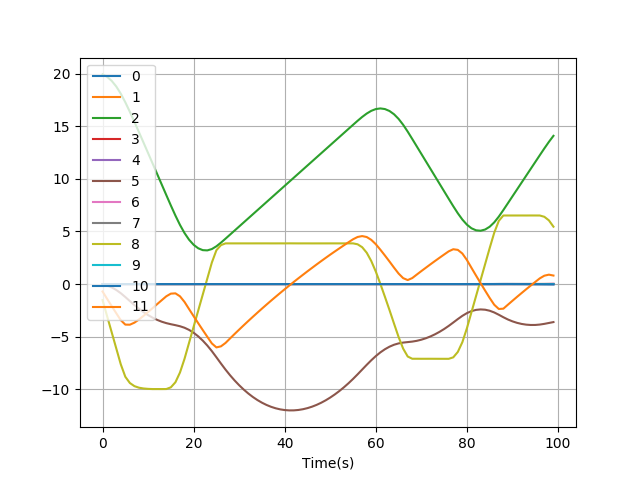
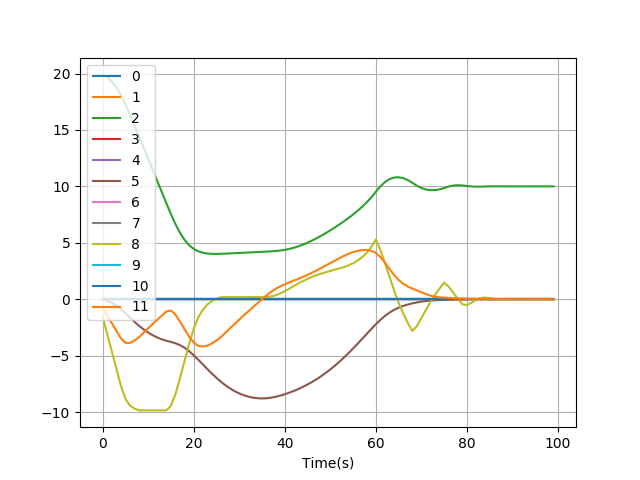
mpc dense cleaned

diff --git a/scripts/test_mpc_dense.py b/scripts/test_mpc_dense.py
@@ -68,36 +68,28 @@ def block_diag(M,n):
   """
   return sparse.block_diag([M for i in range(n)])
 
-# Prediction horizon
+#* Prediction horizon
 N = 10
 
-# Initial and reference states
+#* Initial and reference states
 x0 = np.array([0.,0.,20.,0.,0.,0.,0.,0.,0.,0.,0.,0.])
 xr = np.array([0.,0.,10.,0.,0.,0.,0.,0.,0.,0.,0.,0.]) #np.array([0.,0.,0.,0.,0.,0.,0.,0.,0.,0.,0.,0.])
 xrtrj = np.kron(np.ones(N), xr.reshape(xr.shape[0],-1))
 
-# Plot Ad and Bd
-""" plt.figure()
+#* Plot Ad and Bd
+plt.figure()
 plt.subplot(1,2,1,xlabel="Ns", ylabel="Ns")
 plt.imshow(Ad.toarray(),  interpolation='nearest', cmap=cm.Greys_r)
 plt.title("Ad in $x_{k+1}=Adx_k+Bu_k$")
 plt.subplot(1,2,2,xlabel="Nu", ylabel="Ns")
 plt.imshow(Bd.toarray(),  interpolation='nearest', cmap=cm.Greys_r)
 plt.title("Bdd in $x_{k+1}=Adx_k+Bdu_k$")
-plt.show() """
-
 
 #! Cast MPC problem to a QP: x = [u(0),...,u(N-1)) DENSE FORM
 # - quadratic objective, use 
 Rbd = sparse.kron(sparse.eye(N), R)
 Qbd = sparse.kron(sparse.eye(N), Q)
 Bbd = block_diag(Bd,nu)
-
-""" plt.figure()
-plt.subplot(1,1,1,xlabel="Ns", ylabel="Ns")
-plt.imshow(Bbd.toarray(),  interpolation='nearest', cmap=cm.Greys_r)
-plt.title("Block diagonal B")
-plt.show() """
 
 # Write B:
 diag_AkB = Bd
@@ -117,19 +109,8 @@ for i in range(N):
     diag_AkB = Ad.dot(diag_AkB)
     #diag_AkB = diag_AkB + [Ad.dot(diag_AkB[-1])]
     
-"""     plt.figure()
-    plt.subplot(1,1,1,xlabel="Ns", ylabel="Ns")
-    plt.imshow(AkB_bd_temp.toarray(),  interpolation='nearest', cmap=cm.Greys_r)
-    plt.title("Block diagonals of B")
-    plt.show() """
 
 B = sparse.coo_matrix((data_list, (row_list, col_list)), shape=(N*ns, N*nu))
-#B = sparse.diags(diag_AkB,[-5,-4,-3,-2,-1,0])
-""" plt.figure()
-plt.subplot(1,1,1,xlabel="Ns", ylabel="Ns")
-plt.imshow(B.toarray(),  interpolation='nearest', cmap=cm.Greys_r)
-plt.title("B")
-plt.show() """
 
 a = Ad
 Ak = Ad
@@ -137,67 +118,56 @@ for i in range(N-1):
     Ak = Ad.dot(Ad)
     a = sparse.vstack([a,Ak])
 
-#a = sparse.csc_matrix(a)
-
 
 #! Check x=ax0+bu
 # Generate fake data
-""" x0 = np.array([0.,0.,2.,0.,0.,0.,0.,0.,0.,0.,0.,0.])
-x00 = np.array([0.,0.,2.,0.,0.,0.,0.,0.,0.,0.,0.,0.])
-# Store data Init
-nsim = 100
-xst = np.zeros((ns,nsim))
-ust = np.zeros((nu,nsim))
+check_ab = True
+if check_ab:
+    x0 = np.array([0.,0.,2.,0.,0.,0.,0.,0.,0.,0.,0.,0.])
+    x00 = np.array([0.,0.,2.,0.,0.,0.,0.,0.,0.,0.,0.,0.])
+    # Store data Init
+    nsim = 100
+    xst = np.zeros((ns,nsim))
+    ust = np.zeros((nu,nsim))
 
-# Simulate in closed loop
+    # Simulate in closed loop
 
-for i in range(nsim):
-    # Fake pd controller
-    ctrl = np.array([-0.1*x0[2],-0.1*x0[1],0.1*x0[2],-0.1*x0[3]])
-    x0 = Ad.dot(x0) + Bd.dot(ctrl)
+    for i in range(nsim):
+        # Fake pd controller
+        ctrl = np.array([-0.1*x0[2],-0.1*x0[1],0.1*x0[2],-0.1*x0[3]])
+        x0 = Ad.dot(x0) + Bd.dot(ctrl)
 
-    # Store Data
-    xst[:,i] = x0
-    ust[:,i] = ctrl
+        # Store Data
+        xst[:,i] = x0
+        ust[:,i] = ctrl
 
-x_dense = np.reshape(a @ x00 + B @ ust.flatten('F'),(N,ns)).T
+    x_dense = np.reshape(a @ x00 + B @ ust.flatten('F'),(N,ns)).T
 
-for i in range(1):
-    plt.plot(range(nsim),xst[i,:],label="sim "+str(i))
-    plt.plot(range(nsim),x_dense[i,:],label="ax+bu "+str(i))
-plt.xlabel('Time(s)')
-plt.grid()
-plt.legend()
-plt.show()    
-
-
-for i in range(nu):
-    plt.plot(range(nsim),ust[i,:],label=str(i))
-plt.xlabel('Time(s)')
-plt.grid()
-plt.legend()
-plt.show()   """
+    for i in range(1):
+        plt.plot(range(nsim),xst[i,:],label="sim "+str(i))
+        plt.plot(range(nsim),x_dense[i,:],label="ax+bu "+str(i))
+    plt.xlabel('Time(s)')
+    plt.grid()
+    plt.legend()
+      
 
 
-#plt.subplot(1,1,1,xlabel="Ns", ylabel="Ns")
-""" plt.matshow(a.toarray(), cmap=cm.jet) 
-plt.title("a")
-plt.colorbar()
-plt.show() """
+    for i in range(nu):
+        plt.plot(range(nsim),ust[i,:],label=str(i))
+    plt.xlabel('Time(s)')
+    plt.grid()
+    plt.legend()
+    plt.show()  
 
 
 P = Rbd + B.T @ Qbd @ B
 # - linear objective
 xrQB  = B.T @ np.kron(np.ones(N), Q.dot(xr))
 x0_1 = x0.reshape(x0.shape[0],-1)
-x0aQb = B.T @ Qbd @ a @ x0 #B.T @ np.kron(np.ones(N), Q @ a @ x0) #( (x0_1.T)@(a.T)@(Qbd)@(B) ).squeeze()
+x0aQb = B.T @ Qbd @ a @ x0
 BTQbda =  B.T @ Qbd @ a
 xr_N_flat = np.tile(xr,N)
-""" plt.figure()
-plt.subplot(1,1,1,xlabel="Ns", ylabel="Ns")
-plt.matshow(xrQB,  interpolation='nearest', cmap=cm.Greys_r)
-plt.title("xrQB")
-plt.show() """
+
 
 q = x0aQb - xrQB 
 
@@ -249,15 +219,9 @@ plt.title("q in $J=u^TPu+q^Tu$")
 plt.grid()
 plt.tight_layout()
 plt.savefig("Sparse MPC.png",bbox_inches='tight')
-#plt.show()
-
-
 
 # Setup workspace
 prob.setup(P=P,q=q,A=A,l=l,u=u, warm_start=True)
-
-
-
 
 # Simulate in closed loop
 nsim = 100
@@ -284,6 +248,7 @@ for i in range(nsim):
     xst[:,i] = x0
     ust[:,i] = ctrl
     mpc_times[i] = res.info.run_time
+
     # Update initial state
     x0aQb = BTQbda @ x0
     q = x0aQb  - xrQB
@@ -294,27 +259,24 @@ for i in range(nsim):
 print(time.clock()-t1)
 #%%
 #! Plots
-
-
-plt.figure()
+fig = plt.figure()
+fig.suptitle("MPC Linearized Quadrotor simulation using dense form")
+plt.subplot(3,1,1)
 plt.hist(mpc_times*1000)
 plt.xlabel('Time(ms)')
 plt.title('MPC Run time Histogram')
 plt.grid()
 plt.legend()
-#plt.show()    
 
-
-plt.figure()
+plt.subplot(3,1,2)
 for i in range(ns):
   plt.plot(range(nsim),xst[i,:],label=str(i))
 plt.xlabel('Time(s)')
 plt.grid()
 plt.legend()
-plt.savefig('sim_mcp_quad_pos_dense.png')
-#plt.show()    
+ 
 
-plt.figure()
+plt.subplot(3,1,3)
 for i in range(nu):
   plt.plot(range(nsim),ust[i,:],label=str(i))
 plt.plot(range(nsim),np.ones(nsim)*umin[1],label='U_{min}',linestyle='dashed', linewidth=1.5, color='black')
@@ -322,7 +284,7 @@ plt.plot(range(nsim),np.ones(nsim)*umax[1],label='U_{max}',linestyle='dashed', l
 plt.xlabel('Time(s)')
 plt.grid()
 plt.legend()
-plt.savefig('sim_mcp_quad_u_dense.png')
+plt.savefig('sim_mcp_quad_dense.png')
 plt.show()  
 
 
